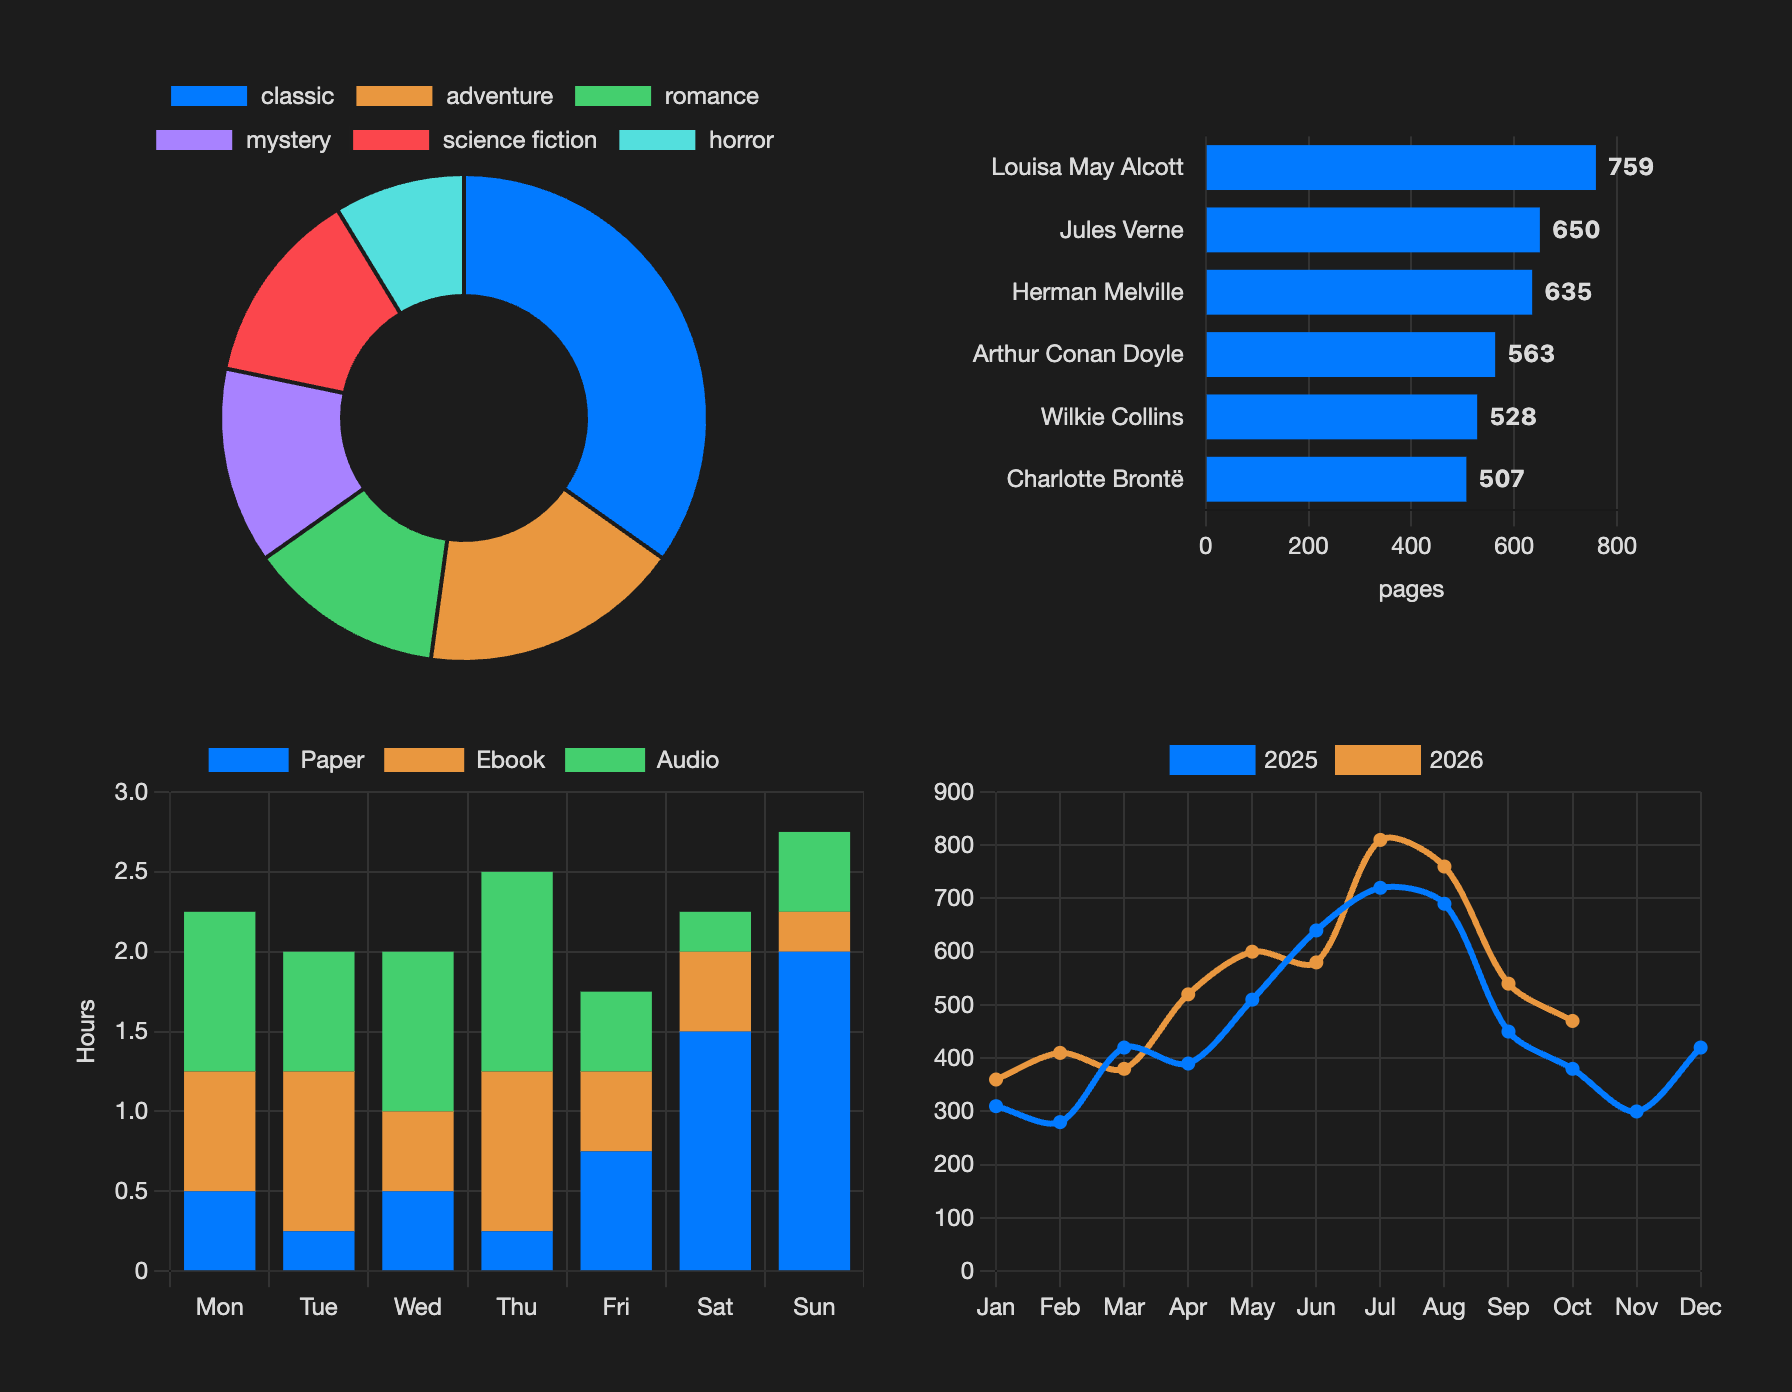
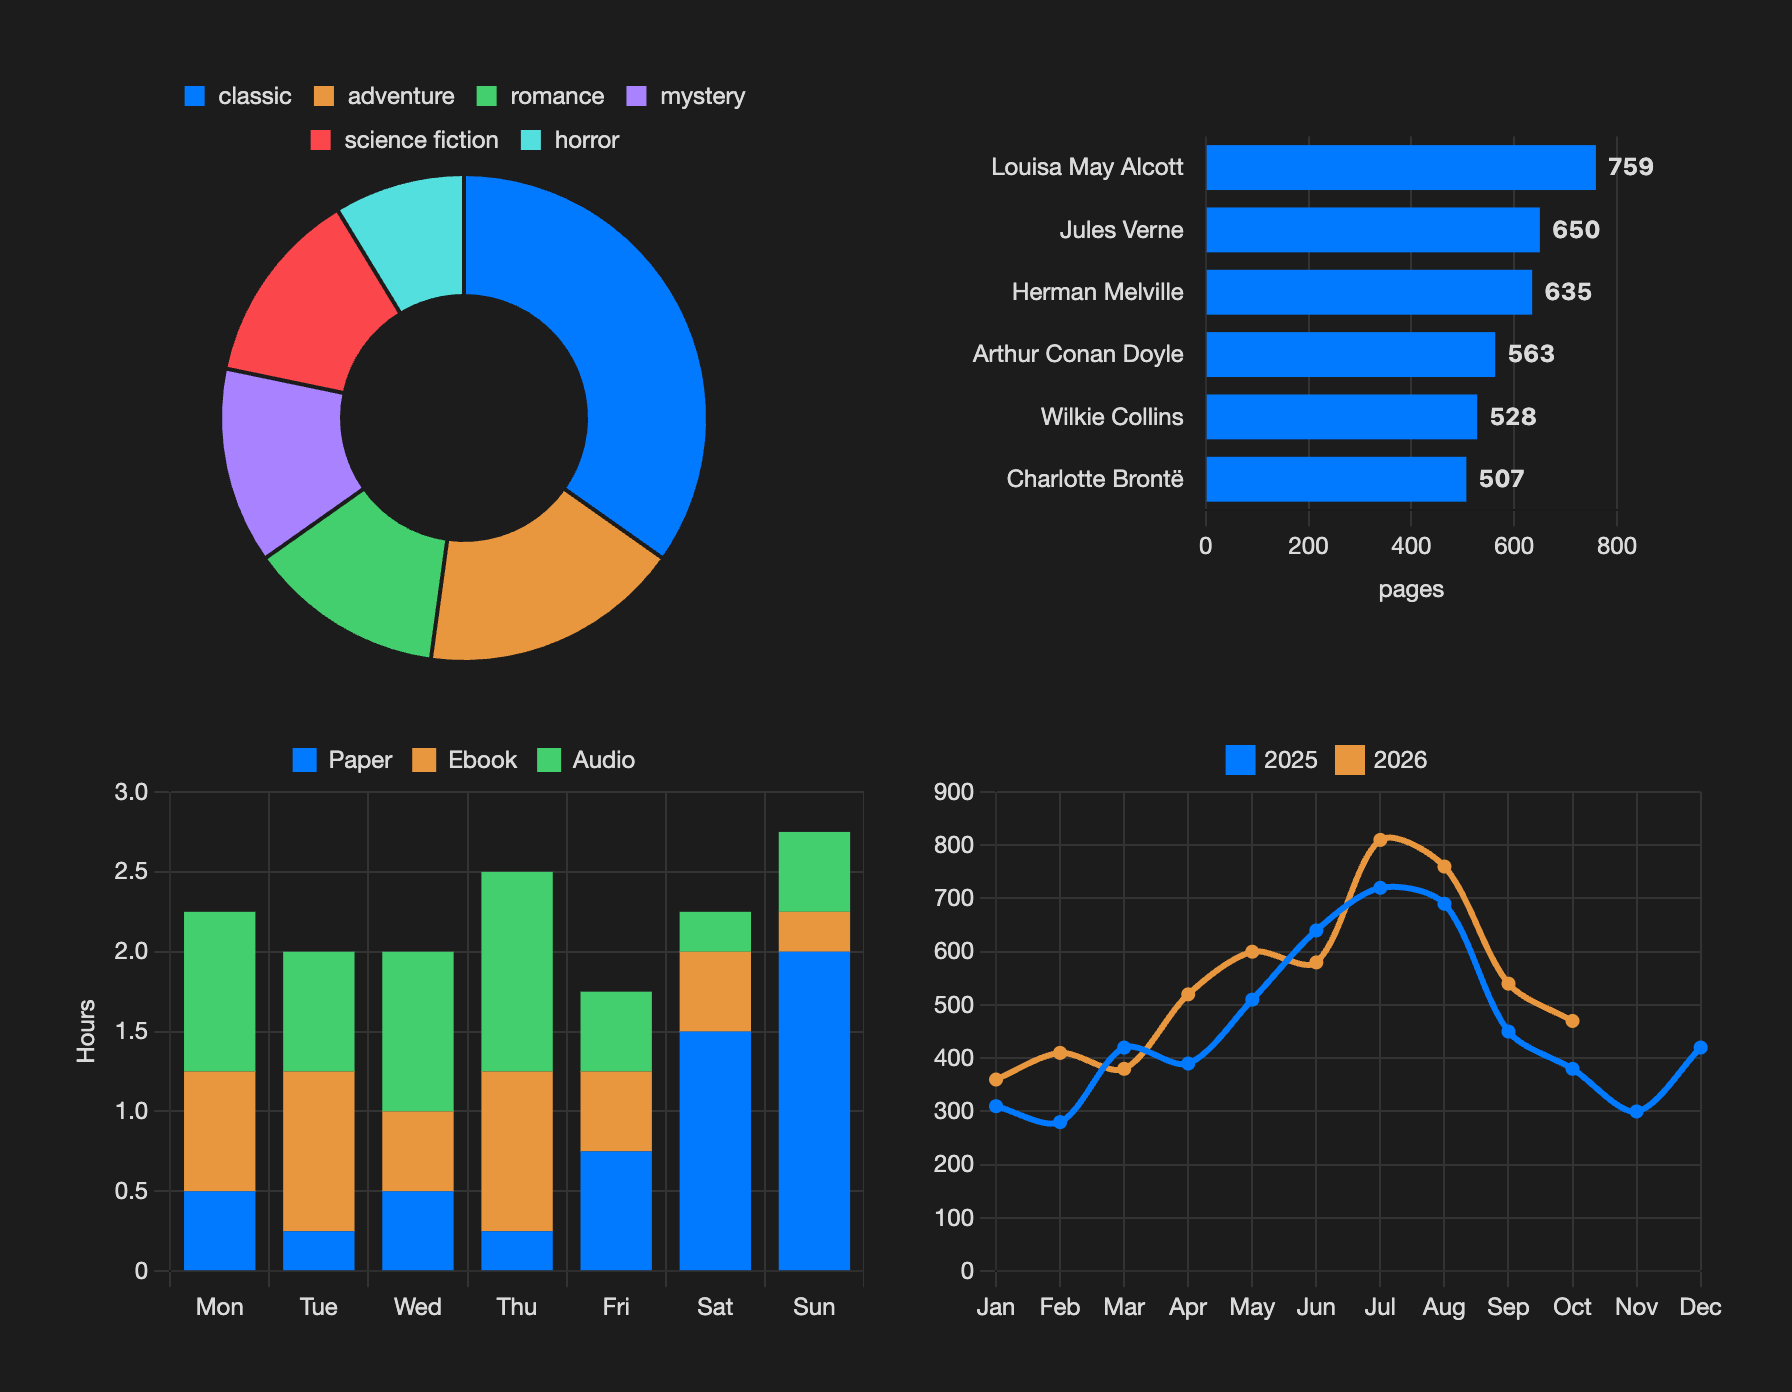
feat: square legend keys, 12 px instead of Chart.js's 40 px wide bars

diff --git a/tests/engine-config.test.ts b/tests/engine-config.test.ts
@@ -76,6 +76,7 @@ void test("theme text colour reaches axes, legend and title", () => {
   assert.equal(at(o, "scales.x.title.text"), "Count");
   assert.equal(at(o, "plugins.title.color"), "#111");
   assert.equal(at(o, "plugins.legend.labels.color"), "#111");
+  assert.equal(at(o, "plugins.legend.labels.boxWidth"), 12);
 });
 
 void test("horizontal height scales with bar count", () => {
@@ -90,7 +91,11 @@ void test("theme fill keeps what the caller set and does not mutate the input", 
   const config = {
     type: "bar",
     data: { labels: ["a"], datasets: [{ data: [1] }, { data: [2], backgroundColor: "hotpink" }] },
-    options: { color: "orange", scales: { y: { ticks: { color: "lime" }, grid: {} } } },
+    options: {
+      color: "orange",
+      scales: { y: { ticks: { color: "lime" }, grid: {} } },
+      plugins: { legend: { labels: { boxWidth: 30 } } },
+    },
   } as unknown as ChartConfiguration;
   const before = JSON.stringify(config);
   const out = fillThemeDefaults(config, theme);
@@ -103,6 +108,8 @@ void test("theme fill keeps what the caller set and does not mutate the input", 
   assert.equal(at(o, "scales.y.grid.color"), "#ddd");
   assert.equal(at(o, "scales.x.ticks.color"), "#111");
   assert.equal(at(o, "plugins.title.color"), "#111");
+  assert.equal(at(o, "plugins.legend.labels.boxWidth"), 30);
+  assert.equal(at(o, "plugins.legend.labels.boxHeight"), 12);
   assert.deepEqual(ds.map((d) => d.backgroundColor), ["#p1", "hotpink"]);
 });
 

diff --git a/src/engine/config.ts b/src/engine/config.ts
@@ -10,6 +10,8 @@ export const DEFAULT_BAR_THICKNESS = 28;
 const DEFAULT_HEIGHT = 300;
 // Only reached with an empty palette, which readTheme never returns
 const FALLBACK_COLOR = "#888888";
+// Chart.js draws legend keys 40 px wide, longer than most of the labels they mark
+const LEGEND_KEY = { boxWidth: 12, boxHeight: 12 };
 
 // Chart.js parses colours itself and knows no color-mix(), so translucency is
 // added to the hex or rgb() value that readTheme normalised the theme to.
@@ -132,7 +134,7 @@ export function buildConfig(spec: ChartSpec, theme: Theme): ChartConfiguration {
         ? spec.kind === "pie" || spec.kind === "doughnut" || data.series.length > 1
         : spec.legend !== false,
       ...(typeof spec.legend === "string" ? { position: spec.legend } : {}),
-      labels: { color: theme.text },
+      labels: { color: theme.text, ...LEGEND_KEY },
     },
     title: { display: Boolean(spec.title), text: spec.title ?? "", color: theme.text },
   };
@@ -212,7 +214,7 @@ export function fillThemeDefaults(config: ChartConfiguration, theme: Theme): Cha
     color: theme.text,
     font: { family: theme.font },
     plugins: {
-      legend: { labels: { color: theme.text } },
+      legend: { labels: { color: theme.text, ...LEGEND_KEY } },
       title: { color: theme.text },
     },
   };

diff --git a/docs/script-api.md b/docs/script-api.md
@@ -61,6 +61,6 @@ Colours can be any CSS colour, including `var(--color-red)`. Without one, series
 
 ## Charts' `renderChart`
 
-Scripts for the Charts plugin call `window.renderChart(config, element)` with a raw Chart.js config, or `{chartOptions: config, width: "60%"}`. Without Charts installed, Chartwork provides it: any Chart.js chart type, time axes included, with theme colours wherever the config sets none. A failing config shows its error and returns `null`. Charts' annotation and sankey plugins are not bundled. New scripts should use `render`, which knows when a note closes.
+Scripts for the Charts plugin call `window.renderChart(config, element)` with a raw Chart.js config, or `{chartOptions: config, width: "60%"}`. Without Charts installed, Chartwork provides it: any Chart.js chart type, time axes included, with theme colours and square legend keys wherever the config sets none. A failing config shows its error and returns `null`. Charts' annotation and sankey plugins are not bundled. New scripts should use `render`, which knows when a note closes.
 
 <img src="images/render-chart.png" width="560" alt="Four charts from renderChart: a radar of genres by year, a polar area of reading hours by time of day, a line of pages read on a time axis and a scatter of pages by year published">
